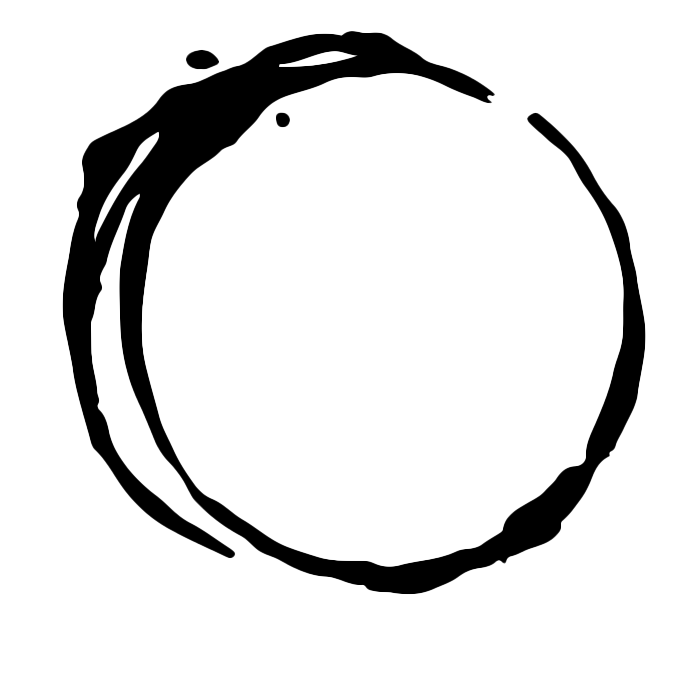
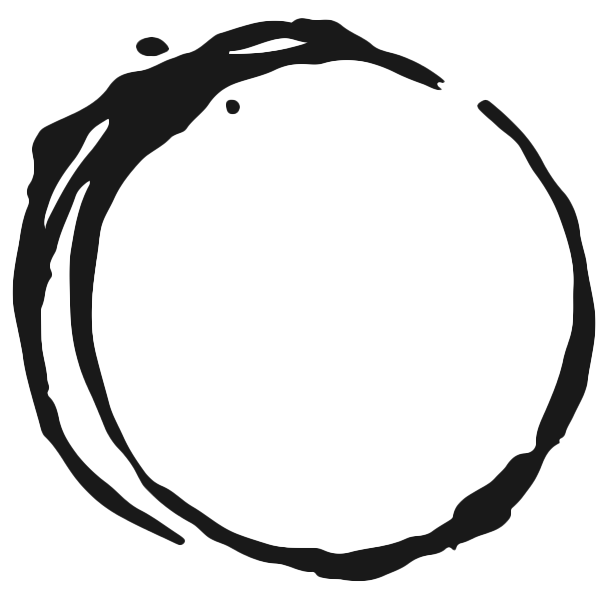
async 3/30 + 4/1 studio time
- replaced header with logo that doesn't interrupt text (more readable/accesible by VoiceOver speech reader)
- added position:sticky to nav bar
- worked on image assets in PS

Changed region(s): [[0.0, 0.03, 1.0, 0.99]]

diff --git a/docs/index.html b/docs/index.html
@@ -11,10 +11,7 @@
       content='width=device-width, initial-scale=1.0, maximum-scale=1.0'/>
   </head>
   <body>
-    <!-- trying to add border images - buggy
-    <div class='border-image-l'>
-      <img src='images/bookshelf.jpg' alt='Bookshelf'/>
-    </div> -->
+
     <div class='typewriter-and-page-container'>
       <div class='typewriter-image'>
         <img src='images/typewriter.png'
@@ -23,36 +20,15 @@
 
       <div class='typewriter-page'>
 
-<!--header -->
-
-<!-- version with images as part of text -->
-        <header class='header-container img-opt'>
-          <div class='title'>
-            <div class='title-text'>L</div>
-            <div class='loose-leaf-o'>
-              <img src='images/coffee-ring-1.png' height='28' alt='A coffee ring that replaces an "O" in loose leaf'/>
-            </div>
-            <div class='loose-leaf-o'>
-              <img src='images/coffee-ring-2.png' height='28' alt='A coffee ring that replaces an "O" in loose leaf'/>
-            </div>
-            <div class='title-text'>se Leaf</div>
+  <!--header -->
+        <header class='header-container'>
+          <div class='title-and-logo'>
+            <div class='title-text'>Loose Leaf</div>
+            <img src='images/tea-leaves-logo.png' alt='Icon of tea leaves' height=50/>
           </div>
           <div class='subtitle'>- books & brews -</div>
         </header>
-
-<!--screen reader option -->
-        <header class='header-container sr-only'>
-          <div class='text-l'>
-            <div class='title-text'>Loose Leaf</div>
-            <div class='subtitle'>- books & brews -</div>
-          </div>
-          <div class='logo-r'>
-            <img src='images/coffee-ring-1.png' height='150' alt='The café logo, which is a coffee ring'/>
-          </div>
-        </header>
-
   <!--navigation bar section -->
-
         <div class='nav-bar-container'>
           <nav class='main-nav' id='main-nav' role='navigation'>
             <ul>
@@ -107,6 +83,9 @@
         <section id='the-brews' class='page-section'>
           <h1>- the brews -</h1>
           <h2>Perhaps you want to take a book for a test drive before you purchase, or you’ve got a project deadline coming up and you need a place to work. Look no farther than our in-house café! Plenty of cozy seats- and sustenance- await… Take a look at our menu below: <em>&#8592; and try not to drool on your keyboard while you’re at it</em></h2>
+<!-- need to replace image with clear background, align with handwriting text
+          <img src='images/test.png' alt='loose leaf paper pinned to web page' width=150 height=150 class='loose-leaf-note'/>
+-->
           <div class='menu-container'>
             <h1>| menu |</h1>
             <h2>beans</h2>
@@ -239,11 +218,12 @@
           <h1>- the underGROUNDS –</h1>
           <h2>Yes, we’re a bookstore and a café, but after hours, we undergo another transformation... <em>&#8592; sort of like a werewolf, but with less teeth</em></h2>
           <h3>The Tea:</h3>
-          <p>Just between you and us, Loose Leaf gets kind of lonely after closing. So, for its own good, after hours it becomes a rentable hot spot for book clubs, advocacy group meetings, and more! Have a meeting, but no meeting space? We’re here to help. Just email <strong>looseleaf@fake.email</strong> with what you have in mind, and we’ll get back to you with more details. <em>(We can’t give all our secrets away on here...)</em></p>
+          <p>Just between you and us, Loose Leaf gets kind of lonely after closing. So, for its own good, after hours it becomes a rentable hot spot for book clubs, advocacy group meetings, and more! Have a meeting, but no meeting space? We’re here to help.</p>
+          <p>Just email <strong>looseleaf@fake.email</strong> with what you have in mind, and we’ll get back to you with more details. <em>(We can’t give all our secrets away on here...)</em></p>
           <h4>---</h4>
         </section>
         <footer class='credits-section'>
-          images by: <em>IconsGhost on The Noun Project & Santo Heston</em>
+          images by: <em>Tomas Knopp on The Noun Project & Santo Heston</em>
           <br/>
           custom FontSquirrel fonts by: <em> Astigmatic (typewriter font) & Kimberly Geswein (handwriting font) [full credits in <a href='https://github.com/cap-alt-delete/website-portfolio-2021spring'>repository</a>]</em>
         </footer>

diff --git a/docs/styles.css b/docs/styles.css
@@ -13,7 +13,6 @@
   font-weight: normal;
 }
 
-
 /* resets browser defaults */
 * {
   margin: 0;
@@ -61,97 +60,73 @@ body {
 
 }
 
-/* formatting for img-opt */
-@media only screen {
-  .sr-only {
-    display: none;
-  }
-
-  .title {
-    display: flex;
-    justify-content: center;
-    align-items: center;
-
-    font-family: 'SpecialElite', "Courier", monospace;
-    font-weight: normal;
-    height: 2em;
-    font-size: 3em;
-  }
-
-  .subtitle {
-    display: flex;
-    justify-content: center;
-    align-items: center;
-
-    height: .5em;
-    font-family: "Courier New", "Courier", monospace;
-    font-weight: 200;
-    font-size: 1.5em;
-  }
+.header-container {
+  display: flex;
+  flex-direction: column;
+  align-content: center;
 }
 
+.title-and-logo {
+  display: flex;
+  justify-content: center;
+}
+
+.title-text {
+  display: flex;
+  justify-content: center;
+  align-items: center;
+
+  padding-right: .4em;
+  font-family: 'SpecialElite', "Courier", monospace;
+  font-weight: normal;
+  height: 1.5em;
+  font-size: 3em;
+}
+
+.subtitle {
+  display: flex;
+  justify-content: center;
+  align-items: center;
+
+  height: 1em;
+  font-family: "Courier New", "Courier", monospace;
+  font-weight: 200;
+  font-size: 1.5em;
+}
+
+
 @media only screen and (max-width: 635px) {
-  /* .img-opt {
-    display: none;
-  }
-
-  .sr-only {
-    display: block;
-  }
-
+/*
   .header-container {
-    width: 100%
-  } trying to switch to more easily shrinkable header and resize for smaller screens? buggy */
+      width: 100%
+    }
+
+  .nav-bar-container {
+    height: 2em;
+  }
+
+  .main-nav > ul {
+    display: flex;
+    flex-direction: column;
+    align-content: center;
+    padding: 0;
+  }
+
+  nav.main-nav > ul > li {
+    padding: 0;
+  } */
 
   .typewriter-image > img {
     display: none;
   }
 } /*removing typewriter for smaller screens - need to style nav-bar and header too*/
 
-/* formatting for screen reader option - does this work?*/
-@media only speech {
-  .img-opt {
-    display: none;
-  }
 
-  .title-text {
-    display: flex;
-    justify-content: flex-end;
-    align-items: center;
-
-    height: 2em;
-    font-size: 4em;
-    color: #222222;
-  }
-
-  .subtitle {
-    display: flex;
-    justify-content: flex-end;
-    align-items: center;
-
-    height: .5em;
-    font-family: "Courier New", "Courier", monospace;
-    font-size: 1.75em;
-  }
-
-  .text-l {
-    display: flex;
-    flex-direction: column;
-    padding-right: .5em;
-  }
-
-  .sr-only {
-    display: flex;
-    justify-content: center;
-    align-items: flex-end;
-  }
-}
-
-
-.main-nav {
-  position: -webkit-sticky; /*for safari - not working*/
+.nav-bar-container {
+  position: -webkit-sticky;
   position: sticky;
   top: 0;
+  background-color: #FAFAFA;
 }
 
 nav.main-nav > ul {
@@ -164,7 +139,7 @@ nav.main-nav > ul {
 
 nav.main-nav > ul > li {
   padding-top: 8em;
-  padding-bottom: 7em;
+  padding-bottom: 7.5em;
 }
 
 nav.main-nav > ul > li > a {
@@ -182,7 +157,7 @@ nav.main-nav > ul > li > a:hover {
 
 .page-section > h1 {
     padding-top: 1.25em;
-    padding-bottom: .75em;
+    padding-bottom: .5em;
     color: #333333; /* darker charcoal for emphasis */
     font-family: 'SpecialElite', "Courier", monospace;
     font-weight: normal;
@@ -193,12 +168,8 @@ nav.main-nav > ul > li > a:hover {
 }
 
 .page-section > h2 {
-  display: flex;
-  justify-content: center;
-  align-self: center;
-
   text-align: center;
-  padding-top: 1em;
+  padding-top: .5em;
 
   font-size: 1em;
   font-style: italic;

diff --git a/assets.md b/assets.md
@@ -1,14 +1,14 @@
 | Asset Needed                     | Solution         | Used? |
 | -------------------------------- | ---------------- | ----- |
 | Old typewriter font              | Font squirrel    | Y     |
-| Handwriting font                 | Font squirrel    |       |
+| Handwriting font                 | Font squirrel    | Y     |
 | Café image                       | Unsplash         |       |
 | Bookshelf image                  | Unsplash         |       |
 | Book club or poster making image | Unsplash         |       |
 | Typewriter image                 | Pixy.org         | Y     |
 | Editing markings                 | the Noun Project |       |
 | Hand-drawn web icons             | the Noun Project |       |
-| Coffee rings for Logo            | the Noun Project | Y     |
+| Coffee rings for Logo            | the Noun Project |       |
 
 *Running Credits:*
 
@@ -139,13 +139,13 @@
 (Citations)
 
               site: thenounproject.com
-              direct address: https://thenounproject.com/term/tea-leaves/516755/
+              direct address: https://thenounproject.com/term/tea-leaves/849302/
               title: Tea Leaves
-              user: BomSymbols, TH
+              user: Tomas Knopp, CZ
 
-10. Logo option 2 - *coffee ring* - USED
+10. Logo option 2 - *coffee ring*
 
-(Annotations) For brand logo (like this idea better because it plays into idea drink ring on physical loose leaf paper, not just tea)
+(Annotations) For brand logo 
 
 (Rights) "This icon is licensed as Creative Commons CCBY / When using it for any project, you are required to give credit to the icon‘s creator or purchase a royalty–free license."
 
@@ -156,9 +156,9 @@
               title: Coffee Ring
               user: IconsGhost
 
-11. Second coffee ring - to make O's in Loose Leaf coffee rings - USED
+11. Second coffee ring
 
-(Annotations) For brand logo (like this idea better because it plays into idea drink ring on physical loose leaf paper, not just tea)
+(Annotations) For brand logo
 
 (Rights) "This icon is licensed as Creative Commons CCBY / When using it for any project, you are required to give credit to the icon‘s creator or purchase a royalty–free license."
 
